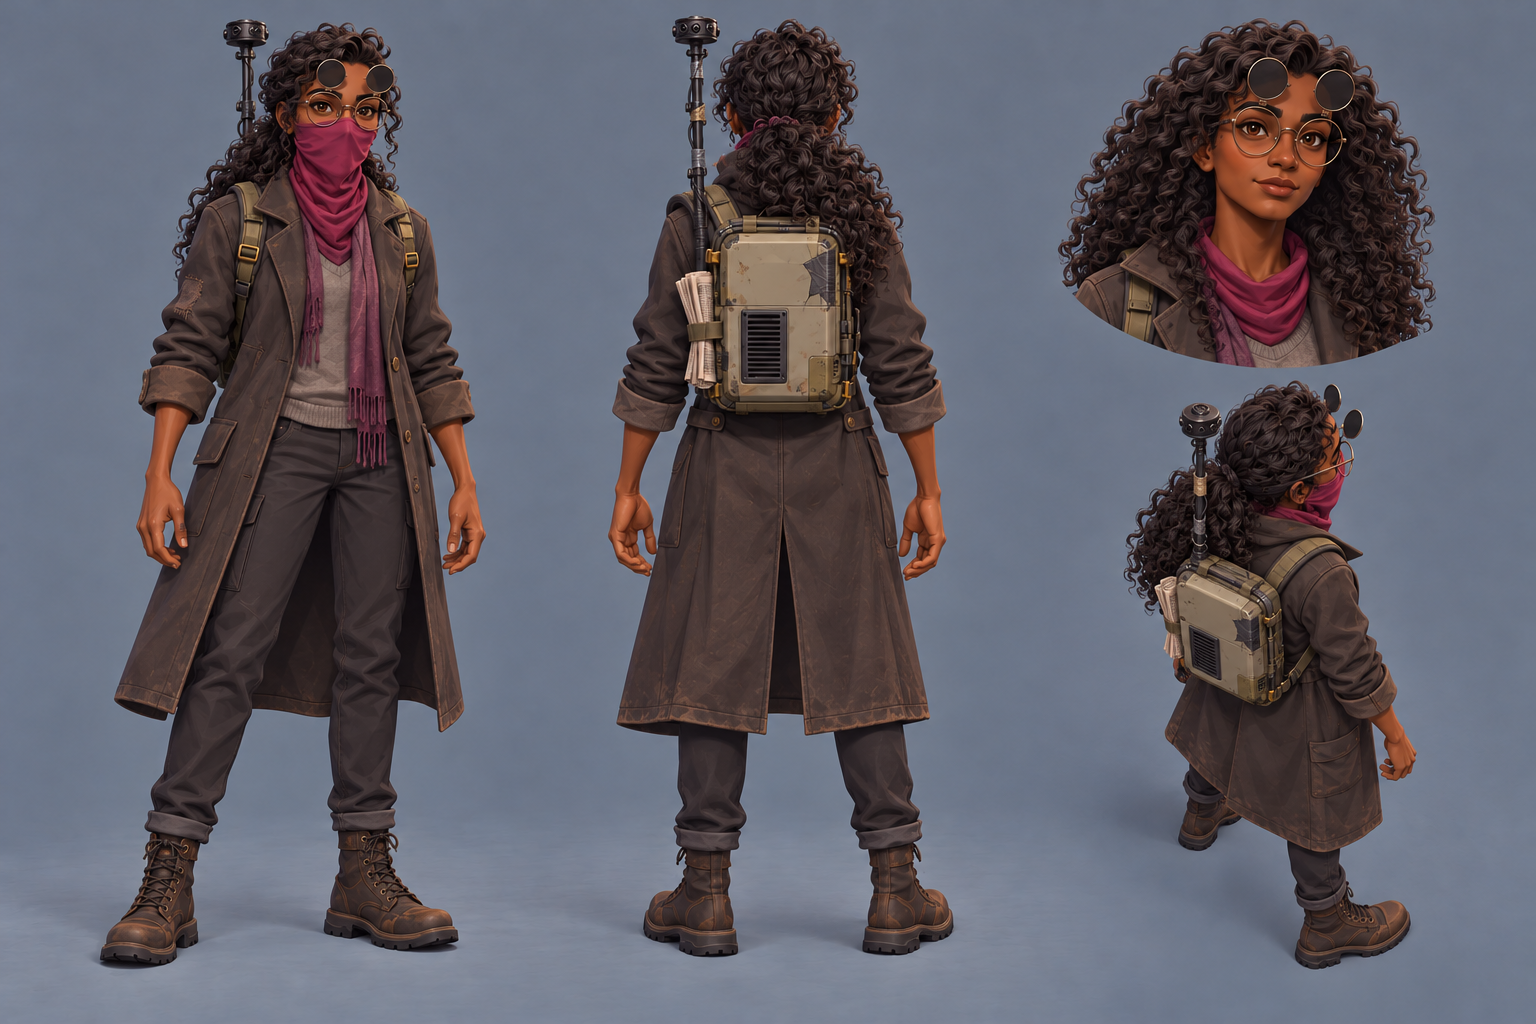
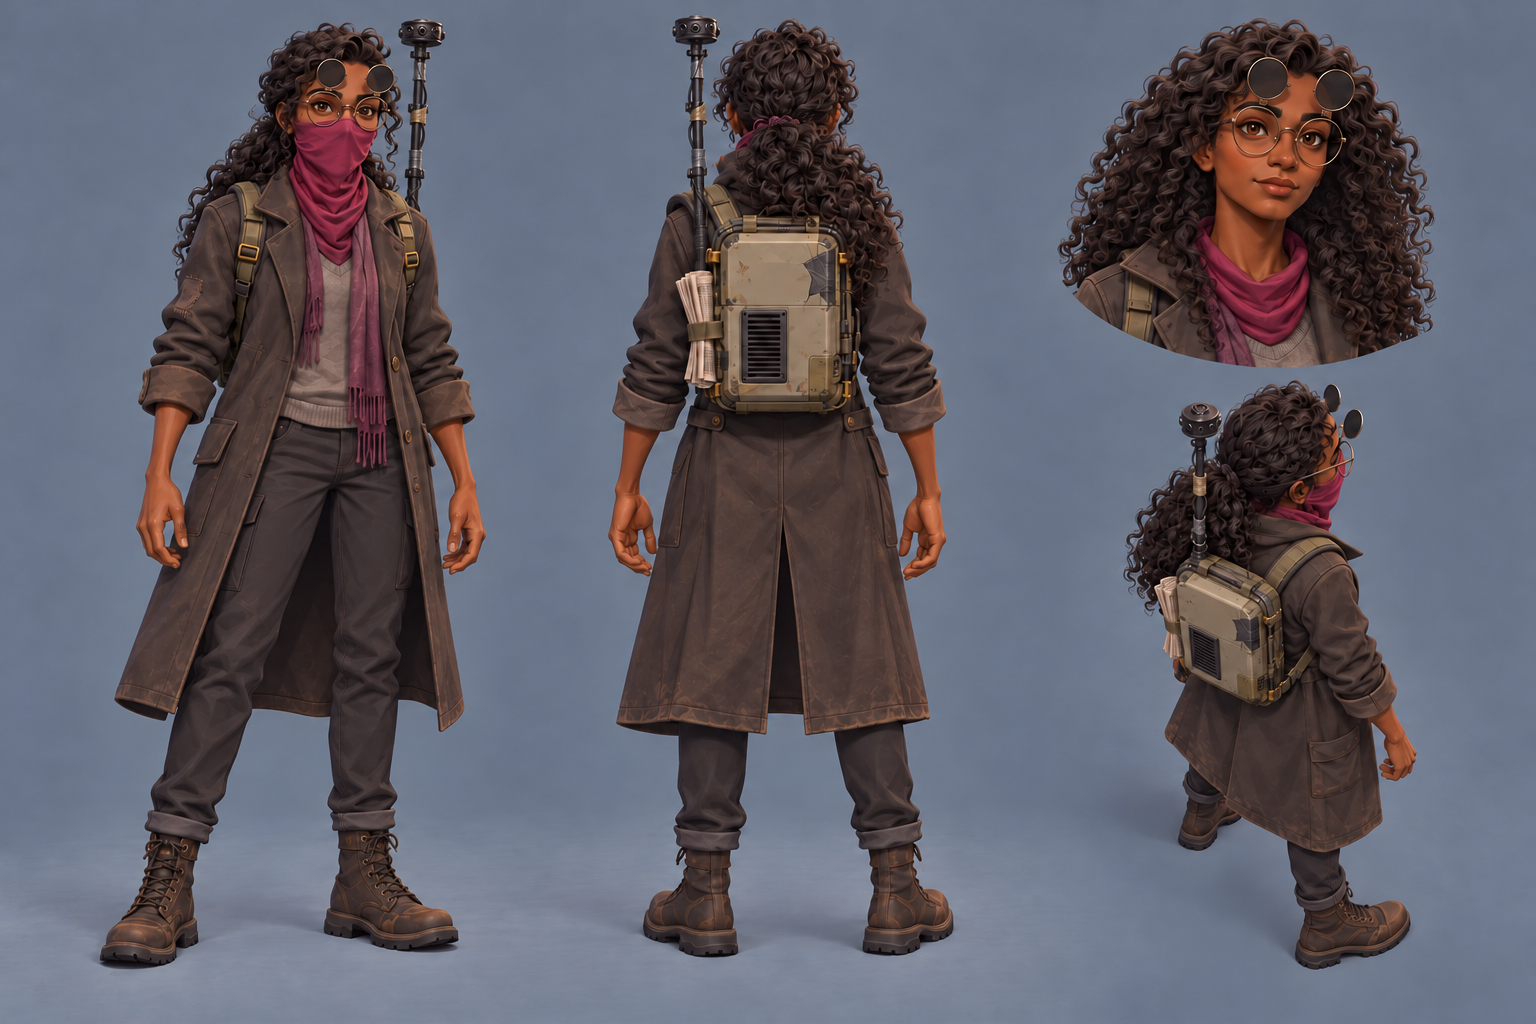
Request 23 delivered; Meshy best practices for the Operators

diff --git a/explorations/character-models.md b/explorations/character-models.md
@@ -4,8 +4,8 @@
   Meshy characters from the retired look: generated, rigged and animated), the story in
   [core-idea-and-story.md](core-idea-and-story.md)
 - Status: open for the look (2026-10-13); the modeling comparison is still parked.
-- Next action: Request 22's [revised sheets and packs](../art/concepts/operator-revision-2026-10-13/README.md)
-  are generated, with a 55-pixel silhouette check, awaiting Bryson's pick. The comparison of how
+- Next action: the sheets are final (Requests 22 and 23). Bryson agrees the Meshy plan in
+  [Findings](#findings), then Claude models the three. The comparison of how
   to model and animate them (the options below) still waits on Bryson.
 
 ## The question
@@ -73,7 +73,36 @@ quality and how clips get shared, cost, and what Astra could contribute.
 
 ## Findings
 
-None yet.
+### 2026-10-13 — Meshy best practices for the Operators (Claude; research, nothing generated)
+
+What Meshy's own docs say (verified), and what it means for our three sheets:
+
+| Practice | Source | Our sheets |
+|---|---|---|
+| One view per image, 1–4 images, the front first; the rest in any order | API docs | Each sheet holds four views in one image, so the front and back get cropped apart |
+| Same character size, camera height and lighting in every view; a true side or back, not a near-duplicate | Multi-view tutorial | Front and back match. The elevated rear view has a different camera height, and the portrait is unmasked: both stay out |
+| Plain background, even light, the subject filling the frame | Multi-view tutorial | Plain blue-grey, even light: fine. Crop tight |
+| At least about 1040 px; low resolution smooths detail | Multi-view tutorial | Each figure crop is about 450 × 1000; packs are 512 × 512. Below the guide |
+| A or T-pose in the input gives the best proportions; `pose_mode` sets the output pose, and rigging needs a model close to one | Tutorial, rigging docs | Arms hang relaxed; ask for `t-pose` or `a-pose` in the output |
+| Rigging: humanoid, textured, 300k faces or fewer, standard proportions; remesh first | Rigging docs | Fine, after a remesh |
+| Accessories hidden in every view float or detach; show each part clearly once | Multi-view tutorial | The camera pole shows in front and back |
+
+- Models: the API now lists `meshy-7.1` (the default "latest") and calls `meshy-7` deprecated.
+  Our MCP server (v0.5.x) only offers `meshy-7` and "latest", and its notes still say "latest"
+  plus `remove_lighting` stays on Meshy 6. The two disagree; the first task's record will show
+  which model ran.
+- Not in any Meshy doc, but general rigging experience: long coats and skirts stretch and tear
+  between the legs under auto-rig weights. The writer's coat reaches her knees, which breaks the
+  old "nothing below mid-thigh" sheet rule. Her coat is the riskiest piece of the three.
+- Our own lesson from September still applies: Meshy flattened every backpack modeled on a body,
+  and the packs came out right as separate objects on the `Spine` bone.
+
+Sources: [Meshy multi-image API](https://docs.meshy.ai/en/api/multi-image-to-3d),
+[Meshy rigging API](https://docs.meshy.ai/en/api/rigging),
+[Meshy rigging guide](https://docs.meshy.ai/en/webapp/guides/3d-model/rigging),
+[Meshy multi-view tutorial](https://www.meshy.ai/tutorials/multi-view-image-to-3d),
+[Meshy image to 3D help](https://intercom.help/meshy/en/articles/9996860-how-to-use-meshy-image-to-3d),
+[Meshy 7.1 notes (third party)](https://blog.neural4d.com/comparisons/meshy-7-release-date-and-alternative/).
 
 ## Open questions
 

diff --git a/EXPLORATIONS.md b/EXPLORATIONS.md
@@ -16,7 +16,7 @@ Every open thread on this project, one row per topic. Start or resume one in a f
 | Environment assets: the pipeline, from scratch | open | Props done and approved by look 2026-10-11: 31 models in `game/assets/`, heavy ones remeshed light; Meshy's raw downloads archived outside the repo. Next: put the art in the game; then the story and personalities; then the architecture and character models explorations | [environment-assets.md](explorations/environment-assets.md) |
 | Architecture: how the buildings, walls and bridges get made | parked | Bryson wants the options compared before committing (2026-10-11). Starts once every current prop has its image and model | [architecture.md](explorations/architecture.md) |
 | How Claude and Astra work together | decided | Adopted 2026-10-10; the core rules are in AGENTS.md, the asset contract in game/assets/README.md. The requests table stays in use: open now are 11, 15 (parked) and 23 | [claude-and-astra.md](explorations/claude-and-astra.md) |
-| Character models: how the people and robots get made | open | The look is moving (2026-10-13): stylized characters in a realistic world, after the adopted [protagonist sheet](art/reference/operator-protagonist-style.png). [Request 22's revised sheets and pack lineup](art/concepts/operator-revision-2026-10-13/README.md) are Bryson's pick, 2026-10-13: the definitive Operators, filed in `art/sources/units/operator_*/` (the writer from the first pass, before the complexion edit). [Request 23's camera-pole correction candidate](art/concepts/operator-writer-pole-fix-2026-10-13/README.md) is ready for Bryson's pick; then Claude models the three with Meshy. Still parked: comparing the ways to model and animate them | [character-models.md](explorations/character-models.md) |
+| Character models: how the people and robots get made | open | The look is moving (2026-10-13): stylized characters in a realistic world, after the adopted [protagonist sheet](art/reference/operator-protagonist-style.png). [Request 22's revised sheets and pack lineup](art/concepts/operator-revision-2026-10-13/README.md) are Bryson's pick, 2026-10-13: the definitive Operators, filed in `art/sources/units/operator_*/` (the writer from the first pass, before the complexion edit). Request 23's [camera-pole correction](art/concepts/operator-writer-pole-fix-2026-10-13/README.md) is Bryson's pick and filed. Next: Claude models the three with Meshy, after Bryson agrees the [plan](explorations/character-models.md#findings). Still parked: comparing the ways to model and animate them | [character-models.md](explorations/character-models.md) |
 | Art pipeline: how 3D assets get made | open | The 2026-09-27 house style is retired. The props' pipeline is settled in environment assets; characters' in character models. The file's tool facts (Meshy, rigging, Godot import) still hold | [art-pipeline.md](explorations/art-pipeline.md) |
 | Visual polish: interface and Network mode | built | Built 2026-10-05: hover card, condensed unit panel, scan badges for Breached devices, network markers, nested menus, the menus' overhaul, the two halves of a turn, AI pins, labels that don't overlap. Changes come from Bryson's play | [visual-polish.md](explorations/visual-polish.md) |
 | Level design: a map that exercises everything | open | The facility yard map built from the research (2026-10-07): three layers on three networks, seven guards, combos placed on purpose. Left: the open questions in the file | [level-design.md](explorations/level-design.md) |

diff --git a/explorations/claude-and-astra.md b/explorations/claude-and-astra.md
@@ -113,7 +113,6 @@ Open requests. Closed ones are summarized under [Closed requests](#closed-reques
 |---|---|---|---|---|
 | 11 | Bryson, through Astra → Claude | File [Astra's independent review](astra-review-2026-10-11.md): 22 game questions in the V2 open questions and ideas, and 18 lore questions for the next lore exploration. Merge duplicates, preserve observation versus hypothesis, and cross-reference the pending V1 readings. Done when every item is filed or linked to an existing question and this row points to the filing commit. Full instructions and evidence are in the handoff | `rulebook.md` V2 backlog; `core-idea-and-story.md` open-question guide; the board as needed | lore half filed 2026-10-11, in [the story exploration's question guide](core-idea-and-story.md#question-guide). The game half is held: Bryson asked to leave the game notes for now |
 | 15 | Astra → Claude | Review the [measured startup breakdown and single-texture import pilot](startup-and-fog.md#focused-startup-proposal-for-joint-review). Resource loading dominates; animation preparation does not. Recommend whether to run the bounded pilot and what visual tradeoff is acceptable. Review only; implementation and asset-pipeline changes await Bryson's decision | `startup-and-fog.md`, this table | parked 2026-10-13 by Claude: the pilot measures loading the placeholder models, which the new art is replacing. Revisit once the new props are in the game |
-| 23 | Bryson, through Claude → Astra | Fix the camera pole on the writer's final sheet, [art/sources/units/operator_writer/01-main.png](../art/sources/units/operator_writer/01-main.png) (your first writer pass, which Bryson chose over the complexion-corrected one; keep her complexion as it is). In the back view the pole rises from her left shoulder (image left), but the front view also shows it at image left, which is her right. Move it in the front view to her left shoulder (image right), and check the elevated rear view agrees. Change nothing else. Bryson picks the result; Claude models all three Operators with Meshy once it's in | Candidates in `art/concepts/operator-writer-pole-fix-<date>/`; Bryson's pick replaces `01-main.png` | candidate ready 2026-10-13: [sheet and review](../art/concepts/operator-writer-pole-fix-2026-10-13/README.md), front pole moved to image right and both rear views checked. Small rendering variations are recorded in the review. Awaiting Bryson's pick; approved source not replaced |
 
 <a id="closed-requests"></a>
 
@@ -137,6 +136,7 @@ Open requests. Closed ones are summarized under [Closed requests](#closed-reques
 | 20 | The Operators' style test | [Gallery](../art/concepts/operator-style-test-2026-10-13/README.md) |
 | 21 | The writer's and the developer's sheets | [Gallery](../art/concepts/operator-sheets-2026-10-13/README.md) |
 | 22 | The Operators revised, with their wearable computers | Finals in `art/sources/units/operator_*/`; [gallery](../art/concepts/operator-revision-2026-10-13/README.md) |
+| 23 | The writer's camera pole, moved to her left shoulder | Bryson's pick, 2026-10-13: `art/sources/units/operator_writer/01-main.png`; [candidate](../art/concepts/operator-writer-pole-fix-2026-10-13/README.md) |
 
 ## Findings
 

diff --git a/art/concepts/operator-writer-pole-fix-2026-10-13/README.md b/art/concepts/operator-writer-pole-fix-2026-10-13/README.md
@@ -1,6 +1,6 @@
 # Writer camera pole correction — Request 23
 
-candidates, awaiting Bryson's pick
+Bryson's pick, 2026-10-13: now the approved source
 
 One precise edit of the approved first-pass writer sheet for
 [Request 23](../../../explorations/claude-and-astra.md#requests), generated with the built-in
